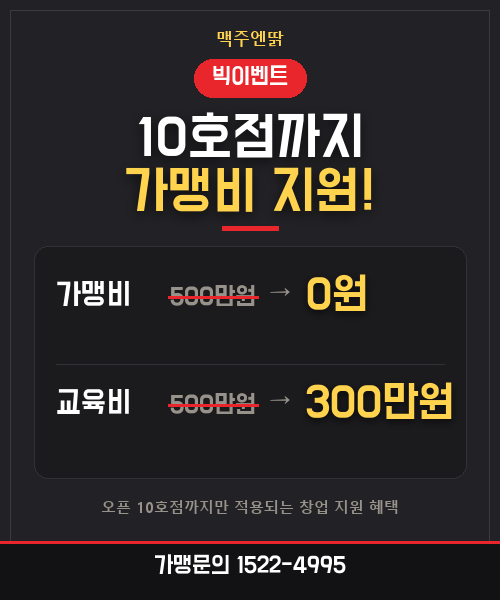
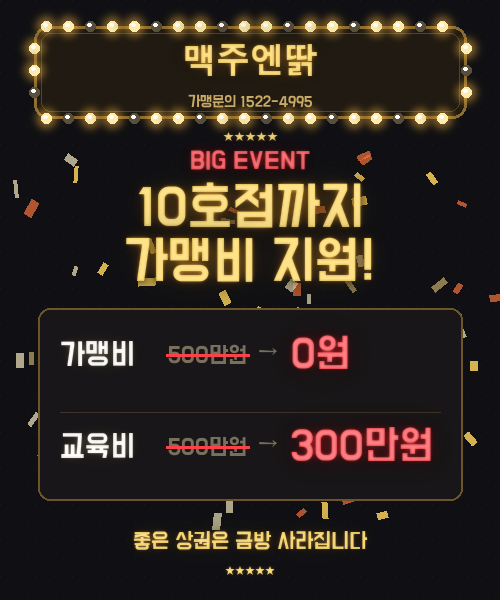
팝업 내용 네온사인 스타일로 리디자인 + 생성 스크립트 저장소 포함
클라이언트 레퍼런스(전구 마퀴 간판·금색 네온 글로우·별·컨페티) 스타일 재현.
경쟁사 이미지·카피는 쓰지 않고 구성/효과만 참고.
- 전구가 둘러싼 간판 프레임(브랜드명 금색 네온) + 다이아 패턴 배경
- 헤드라인 금색 네온 글로우, 태그·할인가는 레드 네온, 별 장식, 컨페티
- 오픈예정 지점은 레퍼런스처럼 별+지점명+상태 셀 그리드
- make_popups.py: 문구(EVENT/OPEN 블록)만 바꿔 재생성 가능

diff --git a/make_popups.py b/make_popups.py
@@ -1,0 +1,183 @@
+"""레이어 팝업 이미지 생성 (500x600) — 네온사인 스타일.
+문구를 바꾸려면 아래 EVENT/OPEN 블록만 고치고 실행 → static/images/popup/ 에 저장.
+(로컬 전용: 맑은고딕 볼드 사용. 서버는 git 으로 결과 PNG 만 받는다)
+"""
+import math
+import random
+from pathlib import Path
+
+from PIL import Image, ImageDraw, ImageFilter, ImageFont
+
+BASE = Path(__file__).resolve().parent
+OUT = BASE / "app" / "static" / "images" / "popup"
+DOH = str(BASE / "app" / "static" / "fonts" / "BMDOHYEON.ttf")
+MAL = r"C:\Windows\Fonts\malgunbd.ttf"
+W, H = 500, 600
+
+BG = (16, 16, 20)
+GOLD = (255, 214, 92)
+GOLD_HI = (255, 244, 200)
+GOLD_GLOW = (255, 170, 40)
+RED = (255, 64, 72)
+RED_GLOW = (255, 30, 40)
+WHITE = (255, 255, 255)
+DIM = (120, 112, 90)
+
+
+def font(path, size):
+    return ImageFont.truetype(path, size)
+
+
+def text_w(text, fnt):
+    return ImageDraw.Draw(Image.new("RGB", (1, 1))).textbbox((0, 0), text, font=fnt)[2]
+
+
+def neon(img, xy, text, fnt, color=GOLD, glow=GOLD_GLOW, core=GOLD_HI, strength=1.0):
+    """네온 글자: 넓은 글로우(블러 큼) → 좁은 글로우 → 본색 → 흰 코어 순서로 겹쳐 그림"""
+    for blur, alpha in ((18, 150), (8, 200), (3, 255)):
+        layer = Image.new("RGBA", img.size, (0, 0, 0, 0))
+        ImageDraw.Draw(layer).text(xy, text, font=fnt, fill=glow + (int(alpha * strength),))
+        layer = layer.filter(ImageFilter.GaussianBlur(blur))
+        img.alpha_composite(layer)
+    d = ImageDraw.Draw(img)
+    d.text(xy, text, font=fnt, fill=color)
+    # 코어: 살짝 작은 오프셋 없이 흰빛 — 글자 가운데가 밝아 보이게
+    core_layer = Image.new("RGBA", img.size, (0, 0, 0, 0))
+    ImageDraw.Draw(core_layer).text(xy, text, font=fnt, fill=core + (110,))
+    core_layer = core_layer.filter(ImageFilter.GaussianBlur(1.2))
+    img.alpha_composite(core_layer)
+
+
+def neon_center(img, y, text, fnt, **kw):
+    neon(img, ((W - text_w(text, fnt)) / 2, y), text, fnt, **kw)
+
+
+def bulb(img, x, y, r=5, on=True):
+    layer = Image.new("RGBA", img.size, (0, 0, 0, 0))
+    ld = ImageDraw.Draw(layer)
+    if on:
+        ld.ellipse((x - r * 2.6, y - r * 2.6, x + r * 2.6, y + r * 2.6), fill=(255, 190, 70, 120))
+        layer = layer.filter(ImageFilter.GaussianBlur(5))
+        img.alpha_composite(layer)
+    d = ImageDraw.Draw(img)
+    d.ellipse((x - r, y - r, x + r, y + r), fill=(255, 236, 170) if on else (90, 80, 60))
+    d.ellipse((x - r * .45, y - r * .55, x + r * .25, y + r * .1), fill=(255, 255, 255))
+
+
+def marquee_sign(img, box, title, sub):
+    """전구가 둘러싼 간판 프레임"""
+    x0, y0, x1, y1 = box
+    d = ImageDraw.Draw(img)
+    d.rounded_rectangle(box, radius=14, fill=(32, 26, 18), outline=(150, 115, 50), width=3)
+    d.rounded_rectangle((x0 + 7, y0 + 7, x1 - 7, y1 - 7), radius=10, outline=(90, 70, 35), width=1)
+    # 전구 — 테두리 따라 등간격, 2개 중 1개는 살짝 어둡게(깜빡이는 느낌)
+    n = 0
+    step = 22
+    for x in range(x0 + 12, x1 - 11, step):
+        bulb(img, x, y0, on=n % 3 != 2); bulb(img, x, y1, on=n % 3 != 1); n += 1
+    for y in range(y0 + step, y1 - step + 1, step):
+        bulb(img, x0, y, on=n % 3 != 0); bulb(img, x1, y, on=n % 3 != 2); n += 1
+    tf = font(MAL, 34)   # 브랜드명(딹)은 도현체에 없음
+    neon(img, ((W - text_w(title, tf)) / 2, y0 + 10), title, tf, color=GOLD, core=GOLD_HI)
+    sf = font(DOH, 13)
+    d = ImageDraw.Draw(img)
+    d.text(((W - text_w(sub, sf)) / 2, y1 - 24), sub, font=sf, fill=(200, 170, 100))
+
+
+def confetti(img, n=70, seed=7):
+    rnd = random.Random(seed)
+    layer = Image.new("RGBA", img.size, (0, 0, 0, 0))
+    for _ in range(n):
+        x, y = rnd.randint(10, W - 10), rnd.randint(140, H - 80)
+        w, h = rnd.randint(4, 9), rnd.randint(10, 18)
+        ang = rnd.uniform(0, math.pi)
+        c = rnd.choice([(255, 214, 92, 210), (255, 244, 200, 170), (255, 120, 60, 170), (230, 200, 120, 150)])
+        piece = Image.new("RGBA", (w, h), c)
+        piece = piece.rotate(math.degrees(ang), expand=True)
+        layer.alpha_composite(piece, (x, y))
+    img.alpha_composite(layer)
+
+
+def stars(img, cx, y, n=5, size=11):
+    f = font(MAL, size)
+    t = "★" * n
+    neon(img, (cx - text_w(t, f) / 2, y), t, f, color=GOLD, strength=.5)
+
+
+def base():
+    img = Image.new("RGBA", (W, H), BG + (255,))
+    d = ImageDraw.Draw(img)
+    # 은은한 다이아 패턴 (레퍼런스의 벽 느낌) — 단색 톤 유지
+    for y in range(0, H, 18):
+        for x in range(0, W, 18):
+            d.point((x + (9 if (y // 18) % 2 else 0), y), fill=(28, 28, 34))
+    marquee_sign(img, (34, 26, W - 34, 118), "맥주엔딹", "가맹문의 1522-4995")
+    return img
+
+
+def strike(img, x, y, text, fnt):
+    d = ImageDraw.Draw(img)
+    d.text((x, y), text, font=fnt, fill=DIM)
+    w = text_w(text, fnt)
+    d.line((x - 2, y + fnt.size * .55, x + w + 2, y + fnt.size * .55), fill=RED, width=3)
+    return w
+
+
+# ---------------- 1. 창업비용 이벤트 ----------------
+EVENT = {
+    "tag": "BIG EVENT",
+    "title": "10호점까지",
+    "title2": "가맹비 지원!",
+    "rows": [("가맹비", "500만원", "0원"), ("교육비", "500만원", "300만원")],
+    "foot": "좋은 상권은 금방 사라집니다",
+}
+img = base()
+confetti(img, seed=3)
+stars(img, W / 2, 128)
+neon_center(img, 148, EVENT["tag"], font(DOH, 22), color=RED, glow=RED_GLOW, core=(255, 200, 200))
+neon_center(img, 182, EVENT["title"], font(DOH, 46))
+neon_center(img, 236, EVENT["title2"], font(DOH, 46))
+d = ImageDraw.Draw(img)
+d.rounded_rectangle((38, 308, W - 38, 500), radius=12, fill=(24, 22, 24, 255), outline=(110, 85, 40), width=2)
+lf, sf, bf = font(DOH, 26), font(DOH, 20), font(DOH, 36)
+for i, (label, orig, new) in enumerate(EVENT["rows"]):
+    y = 332 + i * 92
+    if i:
+        d.line((60, y - 12, W - 60, y - 12), fill=(60, 52, 40), width=1)
+    neon(img, (60, y + 8), label, lf, color=WHITE, glow=(255, 220, 150), core=WHITE, strength=.45)
+    ow = strike(img, 168, y + 12, orig, sf)
+    d = ImageDraw.Draw(img)
+    d.text((168 + ow + 12, y + 10), "→", font=sf, fill=DIM)
+    neon(img, (168 + ow + 44, y + 2), new, bf, color=RED, glow=RED_GLOW, core=(255, 215, 215))
+neon_center(img, 530, EVENT["foot"], font(DOH, 19), strength=.6)
+stars(img, W / 2, 562, size=10)
+img.convert("RGB").save(OUT / "event_fee.png", optimize=True)
+
+# ---------------- 2. 오픈 예정 지점 ----------------
+OPEN = {
+    "tag": "OPEN SOON",
+    "title": "오픈 예정 지점!",
+    "branches": ["양산점", "운암점", "신창점", "문흥점", "화정점"],
+    "foot1": "좋은 상권은 금방 사라집니다",
+    "foot2": "아직 늦지 않았습니다!",
+}
+img = base()
+confetti(img, seed=11)
+stars(img, W / 2, 128)
+neon_center(img, 148, OPEN["tag"], font(DOH, 22), color=RED, glow=RED_GLOW, core=(255, 200, 200))
+neon_center(img, 180, OPEN["title"], font(DOH, 46))
+# 지점 그리드 — 2열, 마지막은 가운데 (레퍼런스처럼 별 + 지점명 + 상태)
+cells = [(38, 250), (254, 250), (38, 350), (254, 350), (146, 450)]
+cw, ch = 208, 86
+nf, st = font(DOH, 27), font(DOH, 14)
+for (x, y), name in zip(cells, OPEN["branches"]):
+    d = ImageDraw.Draw(img)
+    d.rounded_rectangle((x, y, x + cw, y + ch), radius=10, fill=(24, 22, 24, 255), outline=(70, 58, 36), width=1)
+    stars(img, x + cw / 2, y + 7, size=10)
+    neon(img, (x + (cw - text_w(name, nf)) / 2, y + 24), name, nf)
+    d = ImageDraw.Draw(img)
+    t = "오픈예정!"; d.text((x + (cw - text_w(t, st)) / 2, y + 60), t, font=st, fill=(230, 190, 110))
+neon_center(img, 548, OPEN["foot1"], font(DOH, 17), strength=.55)
+neon_center(img, 572, OPEN["foot2"], font(DOH, 17), color=RED, glow=RED_GLOW, core=(255, 210, 210), strength=.7)
+img.convert("RGB").save(OUT / "open_soon.png", optimize=True)
+print("saved:", OUT)
